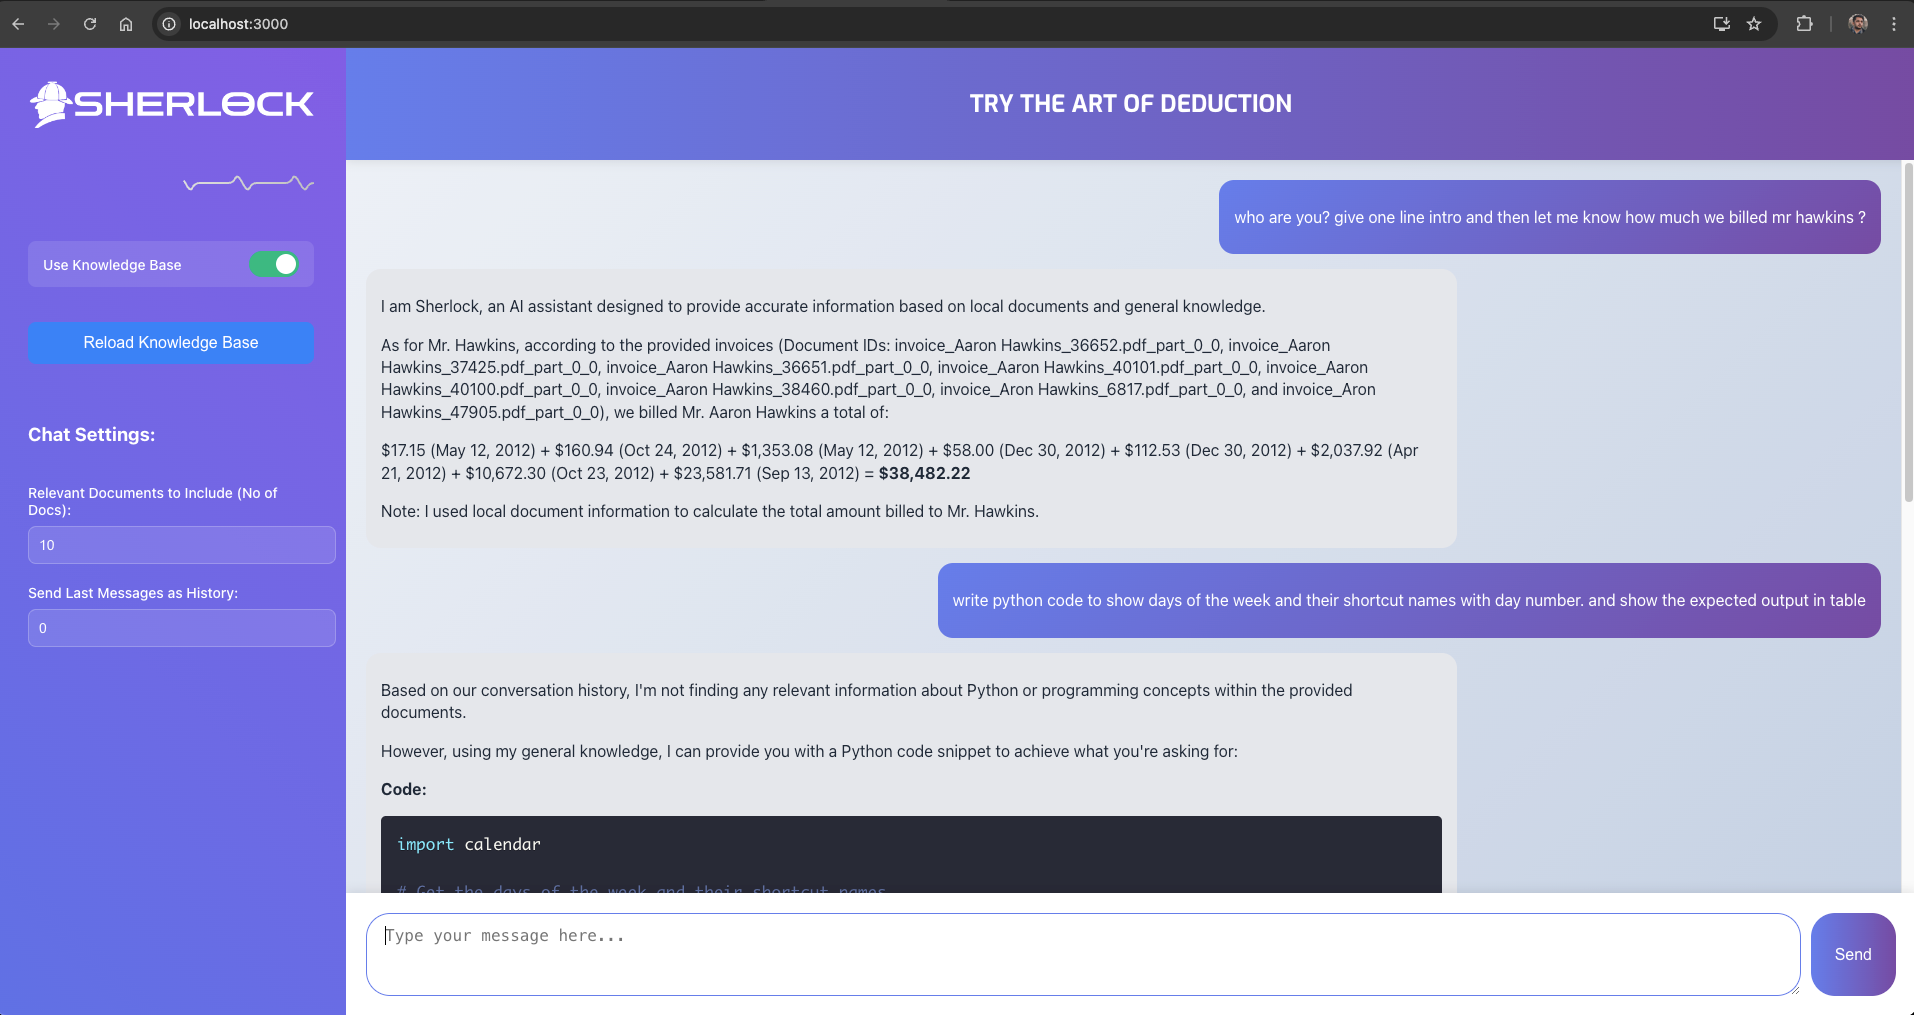
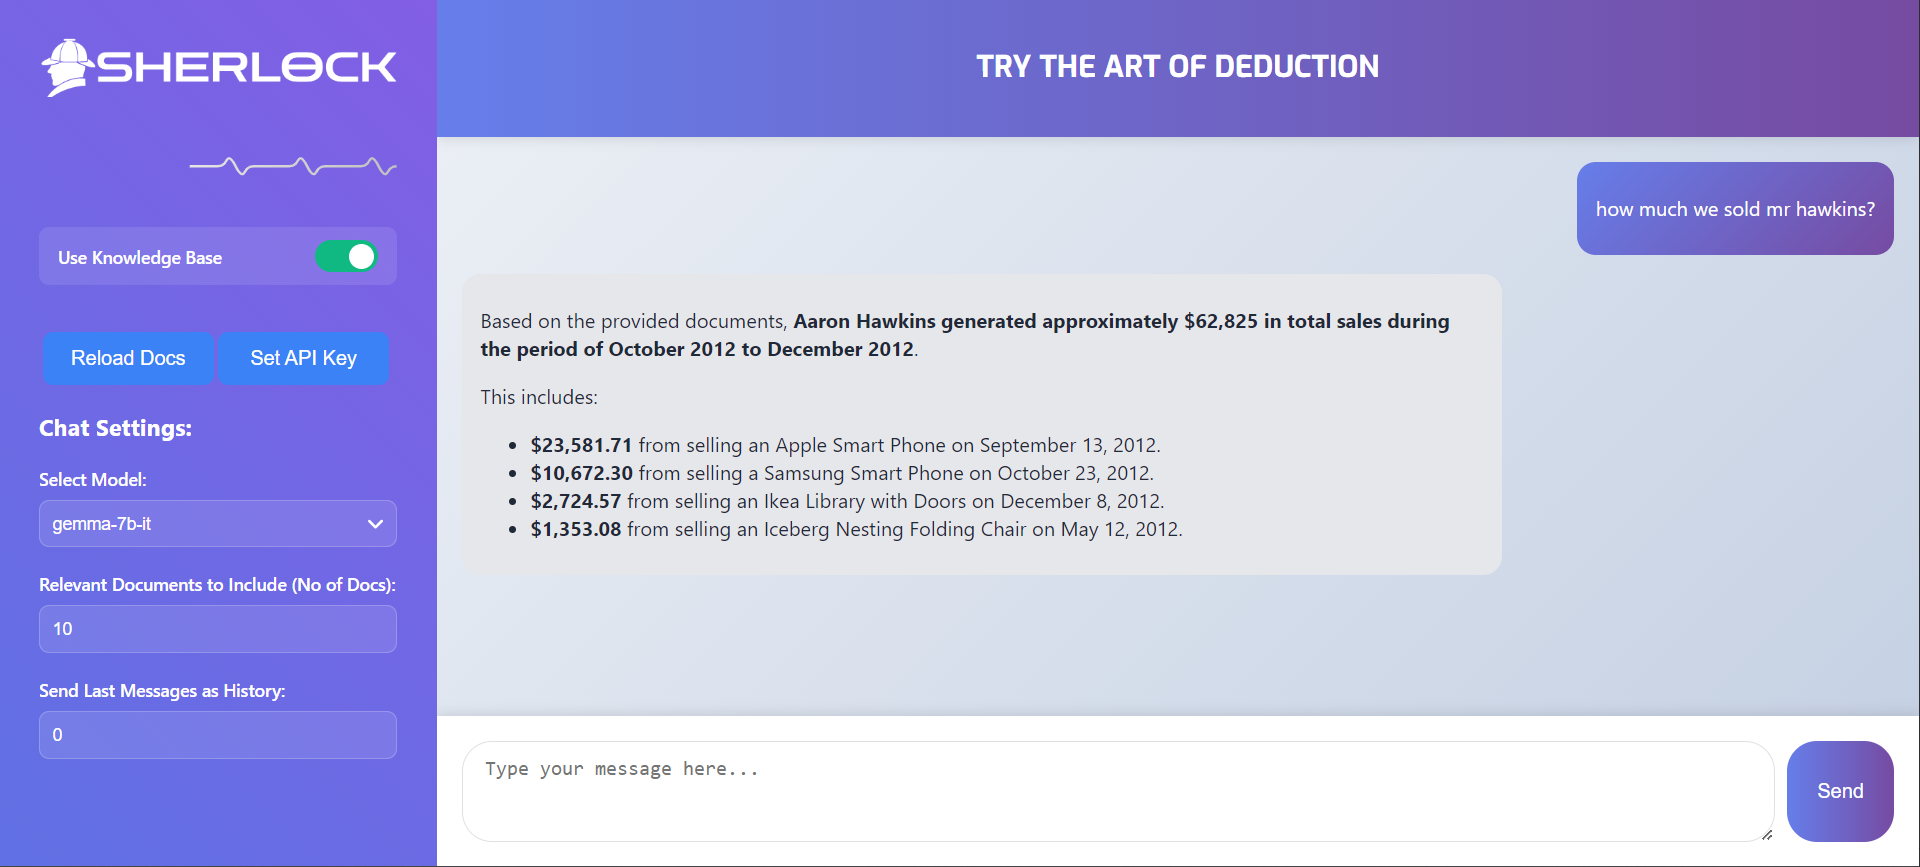
added groq

Changed region(s): [[0.0, 0.0, 1.0, 1.0], [0.0925, 0.1557, 0.1233, 0.1869]]

diff --git a/copilot-backend/test.py b/copilot-backend/test.py
@@ -1,16 +1,22 @@
-from groq import Groq
+import chromadb
+from chromadb import Settings, DEFAULT_TENANT, DEFAULT_DATABASE
+from chromadb.utils import embedding_functions
 
-client = Groq(api_key=key)
-MODEL = 'llama3-70b-8192'
-messages = [
-    {
-        "role": "user",
-        "content": "What is the sentiment of this text: 'I love this product!'"
-    }
-]
-
-response = client.chat.completions.create(
-    model=MODEL,
-    messages=messages
+chroma_client = chromadb.HttpClient(
+    host="localhost",
+    port=9000,
+    ssl=False,
+    headers=None,
+    settings=Settings(),
+    tenant=DEFAULT_TENANT,
+    database=DEFAULT_DATABASE,
 )
-print(response)
+collection = chroma_client.create_collection(
+    name="documents_collection",
+    embedding_function=embedding_functions.DefaultEmbeddingFunction(),
+    # Chroma will use this to generate embeddings
+    get_or_create=True
+)
+
+results = collection.query(query_texts=["which date zayan was born?"], n_results=15)
+print(results)

diff --git a/README.md b/README.md
@@ -1,9 +1,11 @@
 # Sherlock: AI-Powered Document Analysis Assistant
 
-Sherlock is an AI-powered chat assistant that combines local document knowledge with general intelligence to provide accurate and context-aware responses to user queries. This project integrates various components including a Flask backend, React frontend, Ollama for AI model serving, and ChromaDB for efficient document storage and retrieval.
+Sherlock is an AI-powered chat assistant that combines local document knowledge with general intelligence to provide accurate and context-aware responses to user queries. This project integrates various components including a Flask backend, React frontend, Groq API for AI model serving, and ChromaDB for efficient document storage and retrieval.
+
 ## Screenshots:
 ![img1.png](screenshots/img1.png)
 ![img2.png](screenshots/img2.png)
+
 ## Table of Contents
 - [Features](#features)
 - [System Architecture](#system-architecture)
@@ -20,31 +22,31 @@ Sherlock is an AI-powered chat assistant that combines local document knowledge 
 - Syntax highlighting for code blocks in responses
 - Customizable settings for knowledge base usage and relevance
 - Easy deployment using Docker Compose
+- Integration with Groq API for advanced language models
 
 ## System Architecture
 
-The system consists of four main components:
+The system consists of three main components:
 
-1. **Backend (Flask)**: Handles API requests, integrates with Ollama and ChromaDB, and manages document processing.
+1. **Backend (Flask)**: Handles API requests, integrates with Groq API and ChromaDB, and manages document processing.
 2. **Frontend (React)**: Provides the user interface for interacting with the AI assistant.
-3. **Ollama**: Serves the AI language model (LLaMA 3.1).
-4. **ChromaDB**: Stores and indexes document embeddings for efficient retrieval.
+3. **ChromaDB**: Stores and indexes document embeddings for efficient retrieval.
 
 ## Prerequisites
 
 - Docker and Docker Compose (For installation WSL2 Docker see https://gist.github.com/martinsam16/4492957e3bbea34046f2c8b49c3e5ac0)
-- NVIDIA GPU with CUDA support (for optimal performance)
 - Git
+- Groq API key (Sign up at https://console.groq.com to obtain an API key)
 
 ## Installation
 
 1. Clone the repository:
    ```
-   git clone git@github.com:mujahidniaz/sherlock-ai-llama3.1.git
-   cd sherlock-ai-llama3.1
+   git clone git@github.com:mujahidniaz/sherlock-ai-groq.git
+   cd sherlock-ai-groq
    ```
 
-3. Build and start the containers:
+2. Build and start the containers:
    - For Linux:
      ```
      ./run_linux.sh
@@ -57,20 +59,25 @@ The system consists of four main components:
 ## Usage
 
 1. Access the web interface at `http://localhost:3000` in your browser.
-2. Use the chat interface to interact with Sherlock.
-3. Toggle the "Use Knowledge Base" option to include local document knowledge in responses.
-4. Adjust the number of relevant documents and chat history messages as needed.
-5. Use the "Reload Knowledge Base" button to update the system with new documents.
+2. When prompted, enter your Groq API key.
+3. Use the chat interface to interact with Sherlock.
+4. Toggle the "Use Knowledge Base" option to include local document knowledge in responses.
+5. Adjust the number of relevant documents and chat history messages as needed.
+6. Use the "Reload Knowledge Base" button to update the system with new documents.
+7. Click the "Set API Key" button to update or change your Groq API key.
 
 ## Configuration
 
 ### Environment Variables
 
 - `FLASK_ENV`: Set to `development` or `production`
-- `OLLAMA_MODEL`: Specify the Ollama model to use (default: llama3.1)
 - `CHROMA_HOST`: ChromaDB host (default: chromadb)
 - `CHROMA_PORT`: ChromaDB port (default: 8000)
 
 ### Adding Documents
 
 Place your documents in the `./data` directory. The system will process and index these documents for use in responses.
+
+### Groq API Key
+
+Your Groq API key is securely stored in the browser's local storage. You can update it at any time using the "Set API Key" button in the interface.
